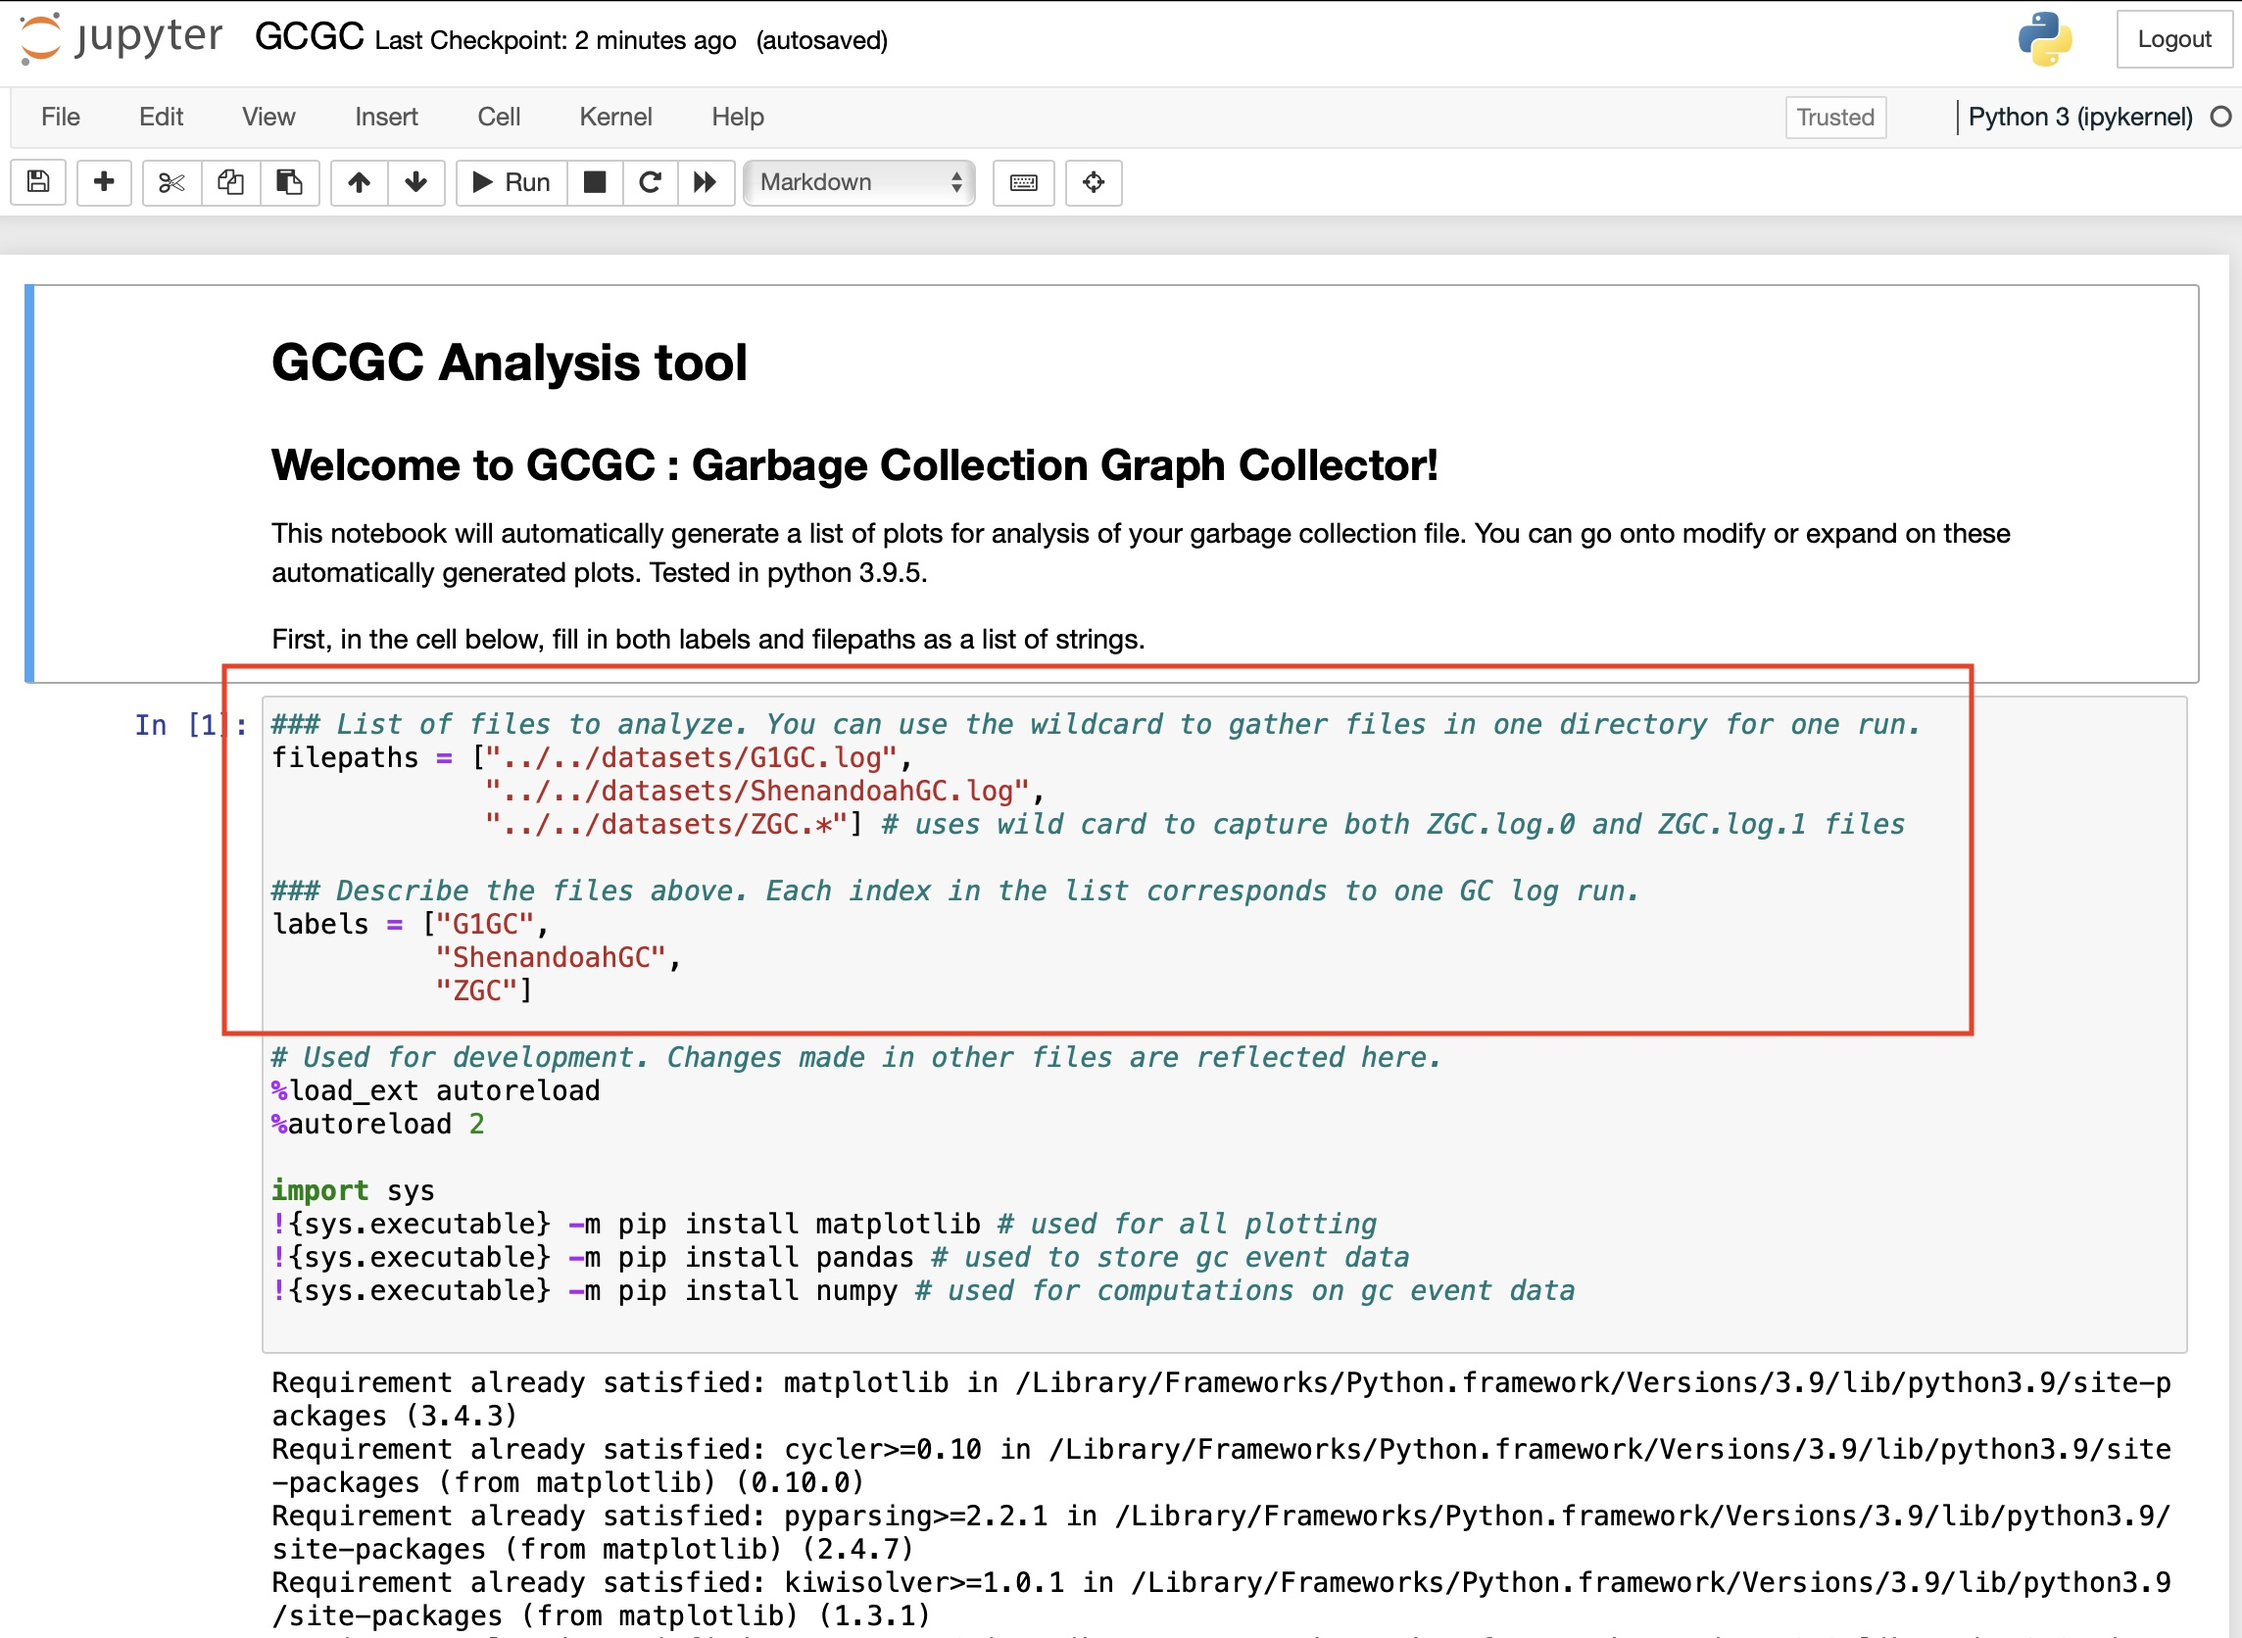
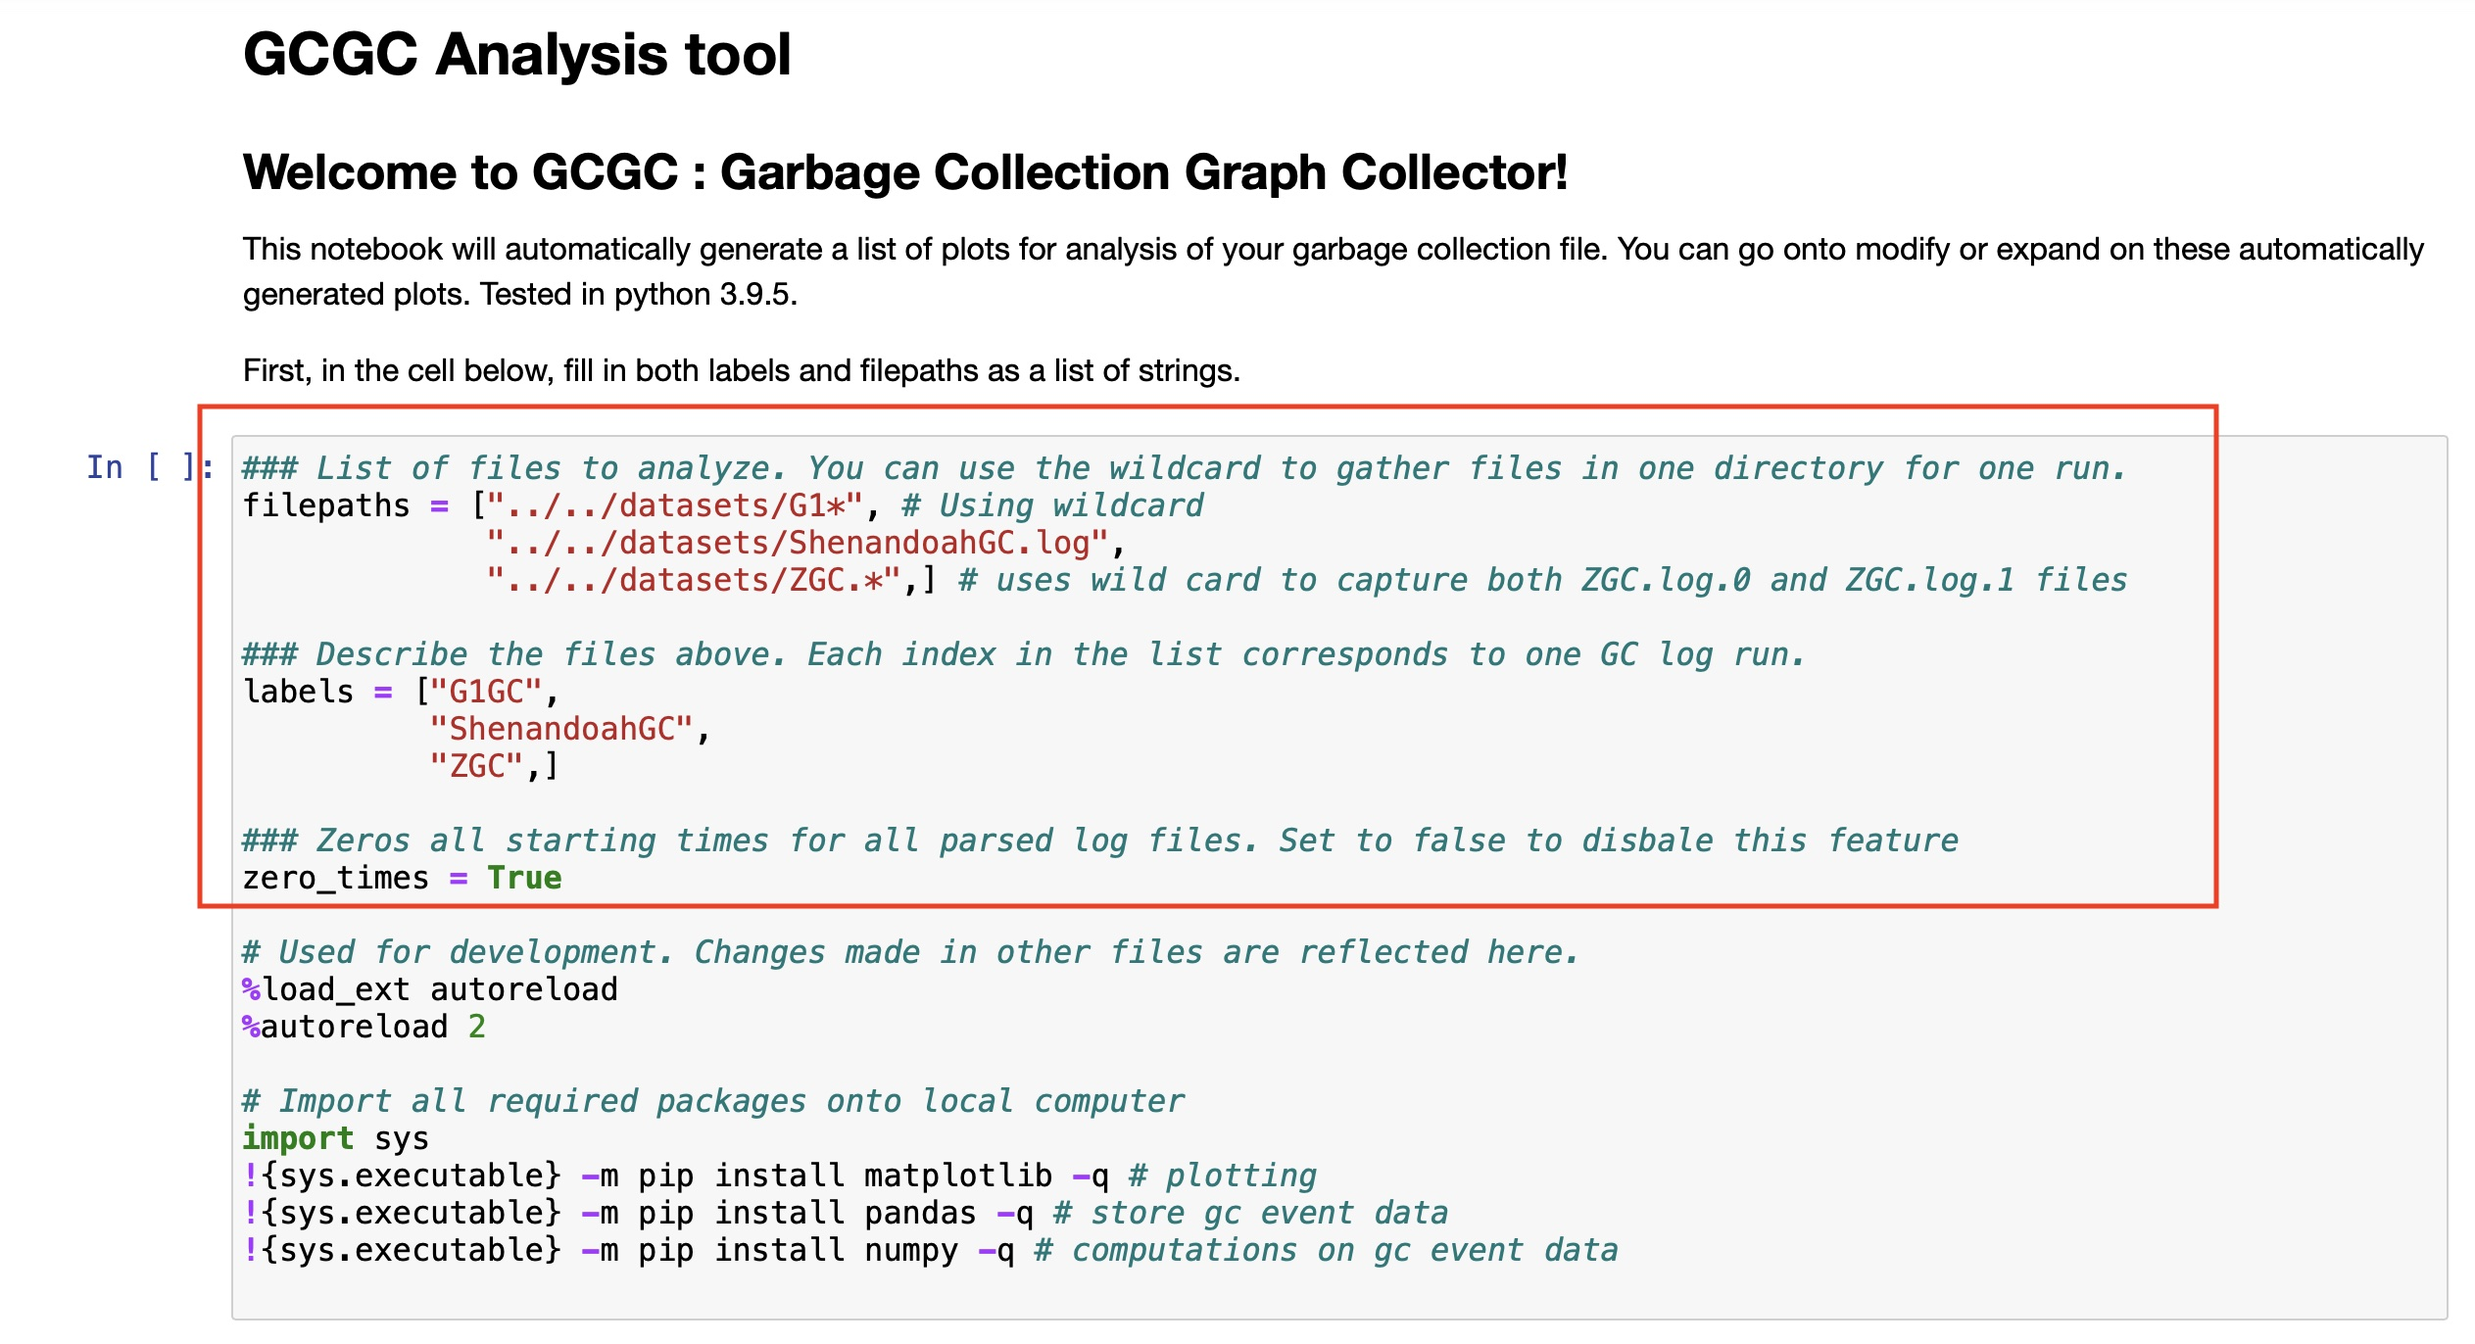
Improve how-to-run with changes to order and labels on plots

Changed region(s): [[0.0, 0.0, 1.0, 1.0], [0.8689, 0.0, 1.0, 0.0918], [0.8068, 0.0612, 0.8378, 0.0918]]

diff --git a/docs/how-to-run.md b/docs/how-to-run.md
@@ -27,11 +27,13 @@ Warning: Changing any data within the notebook will require you to re-downloaded
 4. If this is your first time using the notebook, it is recommended you follow the remaining steps with the provided example files before using your own log files. Otherwise, set the following two variables in the first code cell, as seen below:
 
    - `filepaths` : a list of log files to be analyzed
-   - `labels`: describe the log files listed above. 
+   - `labels` : describe the log files listed above. 
+   - `zero_times` : If true, all logs analyzed will have the same start time. Otherwise, all times will be plotted exactly as they appear in the first time metric in the gc log file.
+   
 
 In the example below, you can see filepaths to sample data, with labels describing the log files. 
 
-<img src="../images/set_filepaths_and_labels.jpg" alt="Setting the state variables" height="350px" />
+<img src="../images/set_filepaths_and_labels.jpg" alt="Setting the state variables" height="370px" />
 
 Note: The notebook allows for using unix style wildcards to capture multiple log files in the same directory, that are all associated with a single run. Using this wildcard will group all captured files into 1 event log, and requires 1 label. 
 
